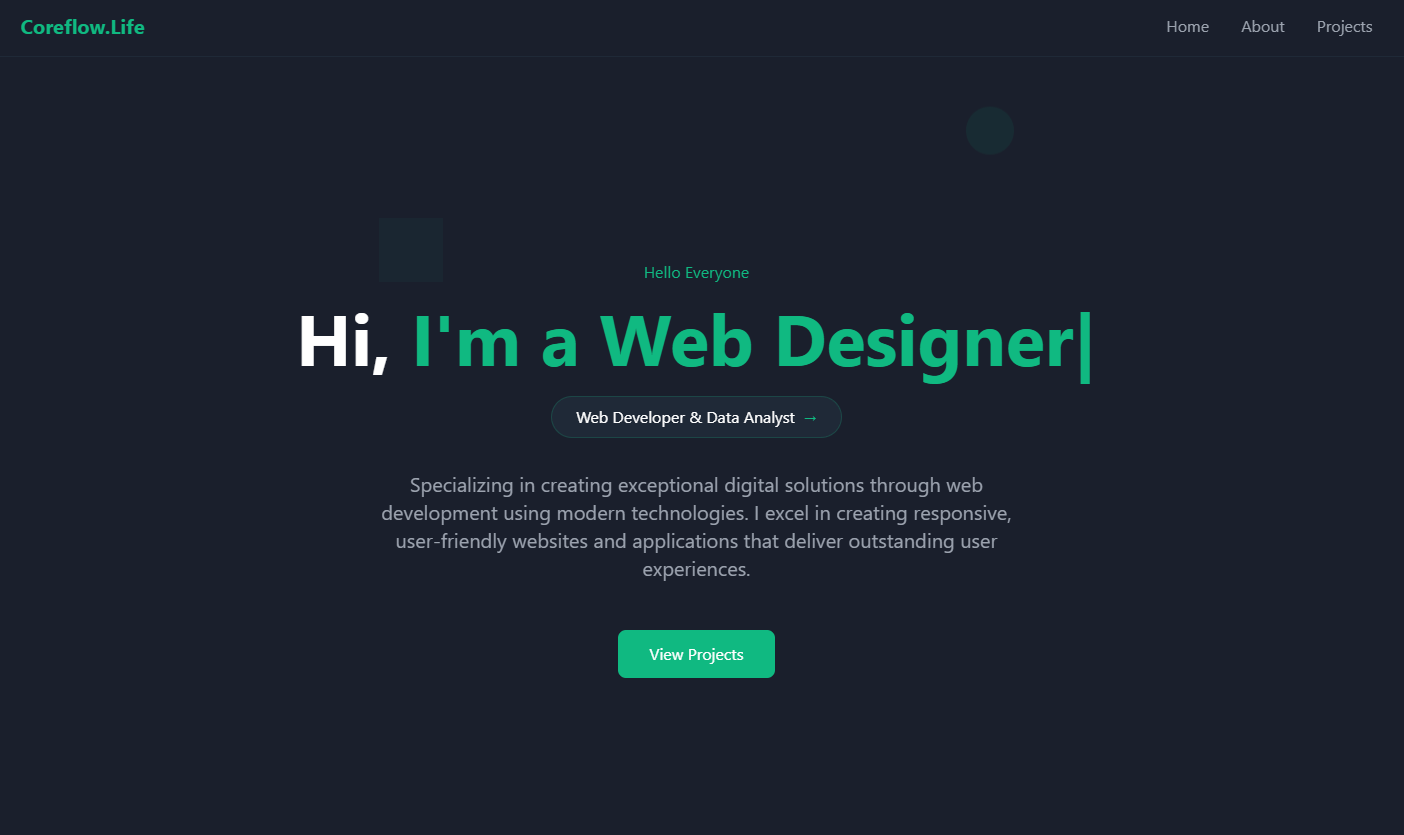
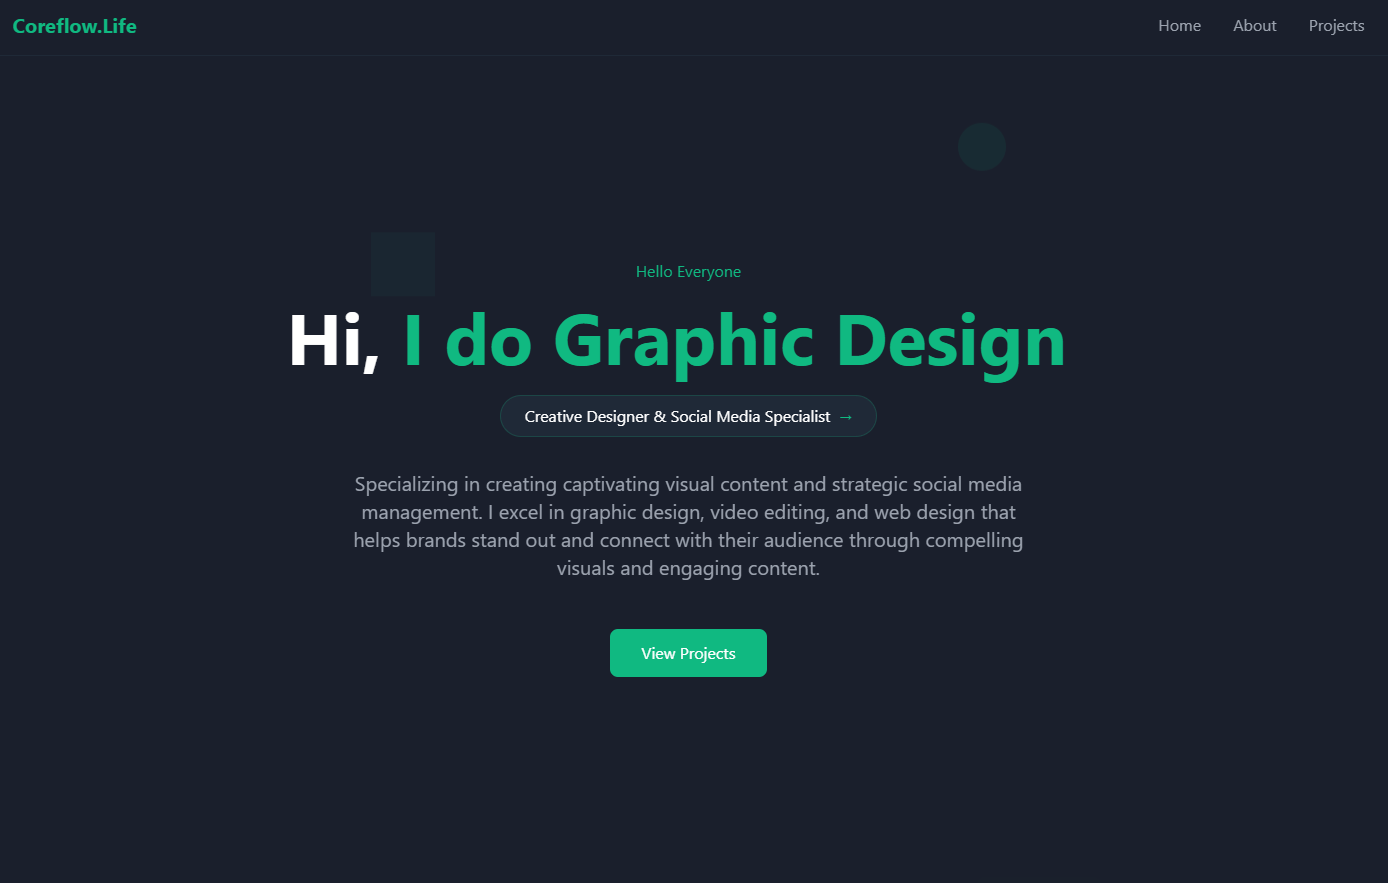
update SEO

diff --git a/index.html b/index.html
@@ -3,26 +3,26 @@
   <head>
       <meta charset="UTF-8" />
       <meta name="viewport" content="width=device-width, initial-scale=1.0" />
-      <title>Coreflow.Life | Web Development & Data Solutions</title>
-      <meta name="description" content="Coreflow.Life specializes in modern web development, e-commerce solutions, data analysis, API integration, and project management. Discover digital solutions for your business." />
-      <meta name="keywords" content="Web Development, Full Stack, Data Analysis, E-commerce, API Development, Project Management, Digital Solutions, Coreflow.Life" />
+      <title>Coreflow.Life | Graphic Design & Social Media Management</title>
+      <meta name="description" content="Coreflow.Life showcases creative graphic design, album covers, social media management, branding, and digital content solutions. Elevate your brand with professional visuals and strategy." />
+      <meta name="keywords" content="Graphic Design, Social Media Manager, Album Covers, Branding, Digital Content, Posters, NFT Art, Coreflow.Life" />
       <meta name="author" content="Coreflow.Life" />
       <meta name="robots" content="index, follow" />
 
       <!-- Open Graph Meta Tags -->
-      <meta property="og:title" content="Coreflow.Life | Web Development & Data Solutions" />
-      <meta property="og:description" content="Modern web development, e-commerce, data analysis, and robust digital solutions. Explore our services and projects." />
+      <meta property="og:title" content="Coreflow.Life | Graphic Design & Social Media Management" />
+      <meta property="og:description" content="Creative graphic design, album covers, branding, and social media management. Explore our portfolio and digital content services." />
       <meta property="og:image" content="/og-image.png" />
-      <meta property="og:image:alt" content="Coreflow.Life Portfolio Preview" />
+      <meta property="og:image:alt" content="Coreflow.Life Graphic Design Portfolio Preview" />
       <meta property="og:type" content="website" />
       <meta property="og:url" content="https://coreflow.life/" />
 
       <!-- Twitter Card Meta Tags -->
       <meta name="twitter:card" content="summary_large_image" />
-      <meta name="twitter:title" content="Coreflow.Life | Web Development & Data Solutions" />
-      <meta name="twitter:description" content="Web development, e-commerce, data analysis, and more. See our work and connect!" />
+      <meta name="twitter:title" content="Coreflow.Life | Graphic Design & Social Media Management" />
+      <meta name="twitter:description" content="Graphic design, album covers, branding, and social media management. See our creative work and connect!" />
       <meta name="twitter:image" content="/og-image.png" />
-      <meta name="twitter:image:alt" content="Coreflow.Life Portfolio" />
+      <meta name="twitter:image:alt" content="Coreflow.Life Graphic Design Portfolio" />
 
       <!-- Favicon -->
       <link rel="icon" href="/favicon.png" type="image/x-icon" />
